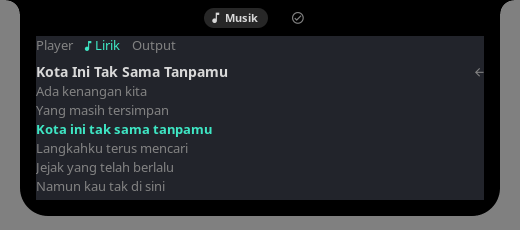
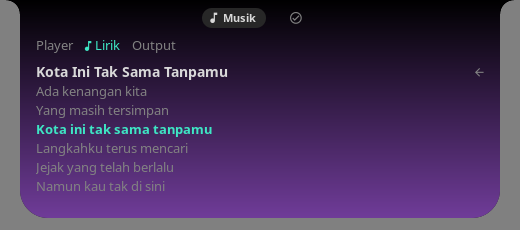
docs: show the real cover wash in the music samples

diff --git a/docs/architecture.md b/docs/architecture.md
@@ -231,7 +231,7 @@ Partial baru: buat `eww/scss/_<area>.scss`, tambah `@import "scss/<area>";` di `
 
 **Bridge Edge.** `browser/ytm-bridge` (MV3, izin `nativeMessaging`, content script hanya `https://music.youtube.com/*`) membaca `navigator.mediaSession` setiap detik dan mengirim `{title, artist, album, video_id, playing, ts}` saat berubah, atau ulang setiap 5 detik. Service worker meneruskannya ke native host `com.openbox_island.ytm_bridge`, yang didaftarkan `browser/ytm-bridge/install.sh ID` di `~/.config/microsoft-edge/NativeMessagingHosts/` dengan `allowed_origins` hanya untuk ID itu. `lib/ytm/bridge-host.sh` membaca frame native messaging (panjang 4 byte little-endian + JSON), menerima tepat satu objek dengan `title` dan `artist` bertipe string serta `ts` opsional bertipe angka, mengganti `ts` dengan waktu terima host (`date +%s%3N`, epoch milidetik), lalu menulis `$ISLAND_STATE/ytm-browser.json` secara atomik (temp + `mv`). Pesan tidak valid diabaikan tanpa mengubah status terakhir. Karena `ts` diset host, jam di halaman tidak memengaruhi umur bridge.
 
-**Warna cover.** `media.color` adalah warna cover `#rrggbb` yang dinormalisasi, atau `""` untuk cover yang tidak tersedia atau didominasi abu-abu serta state none/loading. `lib/media/color.sh` mengambil histogram ImageMagick 12×12, mengelompokkan piksel berwarna ke 12 bucket hue, lalu merata-ratakan klaster tetangga terkuat. Hasil di-cache di `${XDG_CACHE_HOME:-$HOME/.cache}/eww-island/art-color/` dengan kunci SHA-1 isi berkas cover, sehingga path lokal yang berganti-ganti memakai ulang warna tanpa menjalankan ImageMagick lagi. Entri cache ditulis atomik lewat berkas sementara dan rename. Berkas cache kosong adalah hasil sah abu-abu/tanpa warna; entri tidak kosong harus `#rrggbb` huruf kecil, selain itu warna dihitung ulang. Dominasi abu-abu ditentukan dari seluruh bobot berwarna (minimal 25% dari total piksel berbobot kecerahan), terlepas dari klaster hue tetangga mana yang memberi warna. `page-musik` memakai warna ini sebagai `background` halaman tab Musik.
+**Warna cover.** `media.color` adalah warna cover `#rrggbb` yang dinormalisasi, atau `""` untuk cover yang tidak tersedia atau didominasi abu-abu serta state none/loading. `lib/media/color.sh` mengambil histogram ImageMagick 12×12, mengelompokkan piksel berwarna ke 12 bucket hue, lalu merata-ratakan klaster tetangga terkuat. Hasil di-cache di `${XDG_CACHE_HOME:-$HOME/.cache}/eww-island/art-color/` dengan kunci SHA-1 isi berkas cover, sehingga path lokal yang berganti-ganti memakai ulang warna tanpa menjalankan ImageMagick lagi. Entri cache ditulis atomik lewat berkas sementara dan rename. Berkas cache kosong adalah hasil sah abu-abu/tanpa warna; entri tidak kosong harus `#rrggbb` huruf kecil, selain itu warna dihitung ulang. Dominasi abu-abu ditentukan dari seluruh bobot berwarna (minimal 25% dari total piksel berbobot kecerahan), terlepas dari klaster hue tetangga mana yang memberi warna. Shell notch di `windows/expanded.yuck` memakai warna ini sebagai *wash* ala isle selama kartu terbuka pada tab Musik: `background-image: linear-gradient(to bottom, alpha(C, 0), alpha(C, 0.75))` di atas latar hitam shell, sehingga gradien mengikuti radius notch.
 
 **Lirik.** `scripts/lyrics` mencetak `{text, synced, lines, index, for_player, for_title, for_artist, for_length}`. `lines` = `[{t, text}]` dengan `t` timestamp milidetik untuk lirik tersinkron atau `-1` untuk lirik biasa; `index` = baris aktif (`-1` bila belum ada). Untuk lirik biasa, `index` diperkirakan dari posisi × jumlah baris ÷ durasi. `synced` benar hanya bila baris tersinkron sedang tampil. Field `for_player`, `for_title`, `for_artist`, dan `for_length` adalah `player`, `title`, `artist`, dan `length` mentah dari lagu milik lirik itu (`self.track`, tanpa normalisasi), atau `""` untuk teks dan `0` untuk durasi bila tidak ada lagu aktif. Saat listener mulai dan saat lagu berganti, keluaran pertama dibuat lewat `state.output(None)`, sehingga keempat field langsung menunjuk lagu saat itu. Mode Lirik (`musik-lyrics`) memotong `lines` ke `index-2 … index+3` dengan `jq` karena eww tidak bisa menggulir otomatis. Klik baris menjalankan `playerctl --player=${media.player} position t/1000` hanya bila `t >= 0` dan keempat field identitas cocok dengan media, sehingga lirik lagu sebelumnya yang belum diganti tidak memindahkan posisi lagu baru; baris lain dinonaktifkan.
 

diff --git a/docs/fitur.md b/docs/fitur.md
@@ -41,7 +41,7 @@ Island hanya menampilkan YouTube Music. Prioritas player diatur di `eww/players`
 - YouTube Music: selama player yang tampil adalah `ytm_player`, kontrol diapit tombol tidak suka (kiri) dan suka (kanan). Status suka lagu dibaca sekali per lagu di latar belakang lewat ytmusicapi (`get_watch_playlist`, sekitar 1,5 detik) dan disimpan selama listener berjalan; jawaban lambat untuk lagu sebelumnya diabaikan. Tombol yang aktif terisi dan berwarna aksen. Klik menjalankan `ytm like`/`ytm dislike`, atau `ytm unlike` bila status itu sudah aktif, lalu tampilan langsung berubah. Listener mengikuti state `scripts/media` lewat `inotifywait`, tanpa polling; `ytm status` dipanggil sekali saat lagu berganti untuk mengambil video ID.
 - Lagu berikutnya: selama tombol suka tampil, di bawah progress ada satu baris redup berisi ikon antrean lalu `judul — artis` (teks `Berikutnya:` ada di tooltip), dipotong dengan elipsis bila melebihi lebar kartu. Antrean dibaca sekali per lagu dengan `ytm queue` (hanya baca) di latar belakang setelah video ID didapat; jawaban untuk lagu sebelumnya diabaikan dan baris lama langsung hilang saat lagu berganti. Lagu berikutnya dipilih seperti ytm-player sendiri: entri sesudah `current_index`, lagu yang sama saat repeat one, entri pertama saat repeat all tanpa shuffle di akhir antrean. Baris tidak tampil bila lagu yang diputar adalah entri terakhir (termasuk akhir antrean shuffle, karena urutan diacak ulang), tidak berada di posisi `current_index`, atau antrean gagal dibaca. Perubahan antrean tanpa ganti lagu baru terlihat pada lagu berikutnya.
 - Headphone: selama output default adalah headset Bluetooth (sink `bluez_*`) atau port headphone/headset kabel, ikon headphone tampil di samping visualizer pada pill musik (ikon Bluetooth atau kabel; merah bila baterai ≤ 20%). Di tab Musik, baris di atas kontrol menampilkan nama perangkat lalu ikon level baterai dan persentasenya (`ULT WEAR`, ikon, `90%`; hanya nama bila baterai tidak terbaca) rata kanan, berbagi baris dengan lagu berikutnya. Speaker dan HDMI tidak menampilkan apa pun. Listener `status` membaca ulang saat event sink/server `pactl subscribe` dan sinyal BlueZ `Connected`/`Battery1.Percentage` (`gdbus monitor`), tanpa polling; nama dan baterai dari `bluetoothctl info`.
-- Warna cover: latar halaman tab Musik diwarnai dengan warna dominan cover (`media.color`). Warna diambil dari histogram cover yang diperkecil ke 12×12 piksel dengan ImageMagick dan disimpan di `${XDG_CACHE_HOME:-$HOME/.cache}/eww-island/art-color/` menurut SHA-1 isi berkas cover. Cover yang didominasi abu-abu, cover yang tidak tersedia, dan kerangka saat ganti lagu tidak memberi warna; latar tetap default. Pill ringkas tidak diwarnai.
+- Warna cover: selama tab Musik tampil di kartu, notch diberi *wash* warna dominan cover (`media.color`) seperti isle: tetap hitam di bawah tepi layar, lalu warna cover naik bertahap hingga 75% di tepi bawah, mengikuti sudut bulat notch; teks tetap di atas latar gelap. Warna diambil dari histogram cover yang diperkecil ke 12×12 piksel dengan ImageMagick dan disimpan di `${XDG_CACHE_HOME:-$HOME/.cache}/eww-island/art-color/` menurut SHA-1 isi berkas cover. Cover yang didominasi abu-abu, cover yang tidak tersedia, dan kerangka saat ganti lagu tidak memberi warna; notch tetap hitam. Pill ringkas dan tab lain tidak diwarnai.
 
 Tombol suka/tidak suka dan lagu berikutnya memerlukan ytm-player yang sudah login, lihat [Konfigurasi → Tombol suka YouTube Music](konfigurasi.md#tombol-suka-youtube-music).
 

diff --git a/README.md b/README.md
@@ -40,7 +40,7 @@ openbox-island sits at the top edge of monitor 0 like a notch: a 508×44 px comp
 **Now playing**
 - YouTube Music only: [ytm-player](https://ytm-player.com) and ytermusic, plus Microsoft Edge when the bundled `browser/ytm-bridge` extension confirms the track comes from a `music.youtube.com` tab. Regular YouTube, other web media and other MPRIS players are ignored. Priority order is configurable (default `ytm_player,ytermusic,edge`).
 - The Music tab has **Player**, **Lirik** and **Output** modes. Lirik shows up to six lyric lines around the current one; clicking a synced line seeks to it. Output lists audio sinks, and clicking one makes it the default and moves every playing stream to it.
-- The Music tab background is tinted with the cover's dominant colour; grey covers keep the default background.
+- While the Music tab is shown, the notch gets an isle-style wash of the cover's dominant colour: black under the screen edge, rising to 75% of the colour at the bottom. Grey covers keep the notch black.
 - Synced lyrics from LRCLIB with NetEase Cloud Music as a fallback; for ytm-player, YouTube Music lyrics are tried first.
 - A real audio spectrum visualizer, processed at the island monitor's refresh rate and fed only by the active player's own output stream.
 - Like/dislike buttons and an "up next" line for ytm-player.
